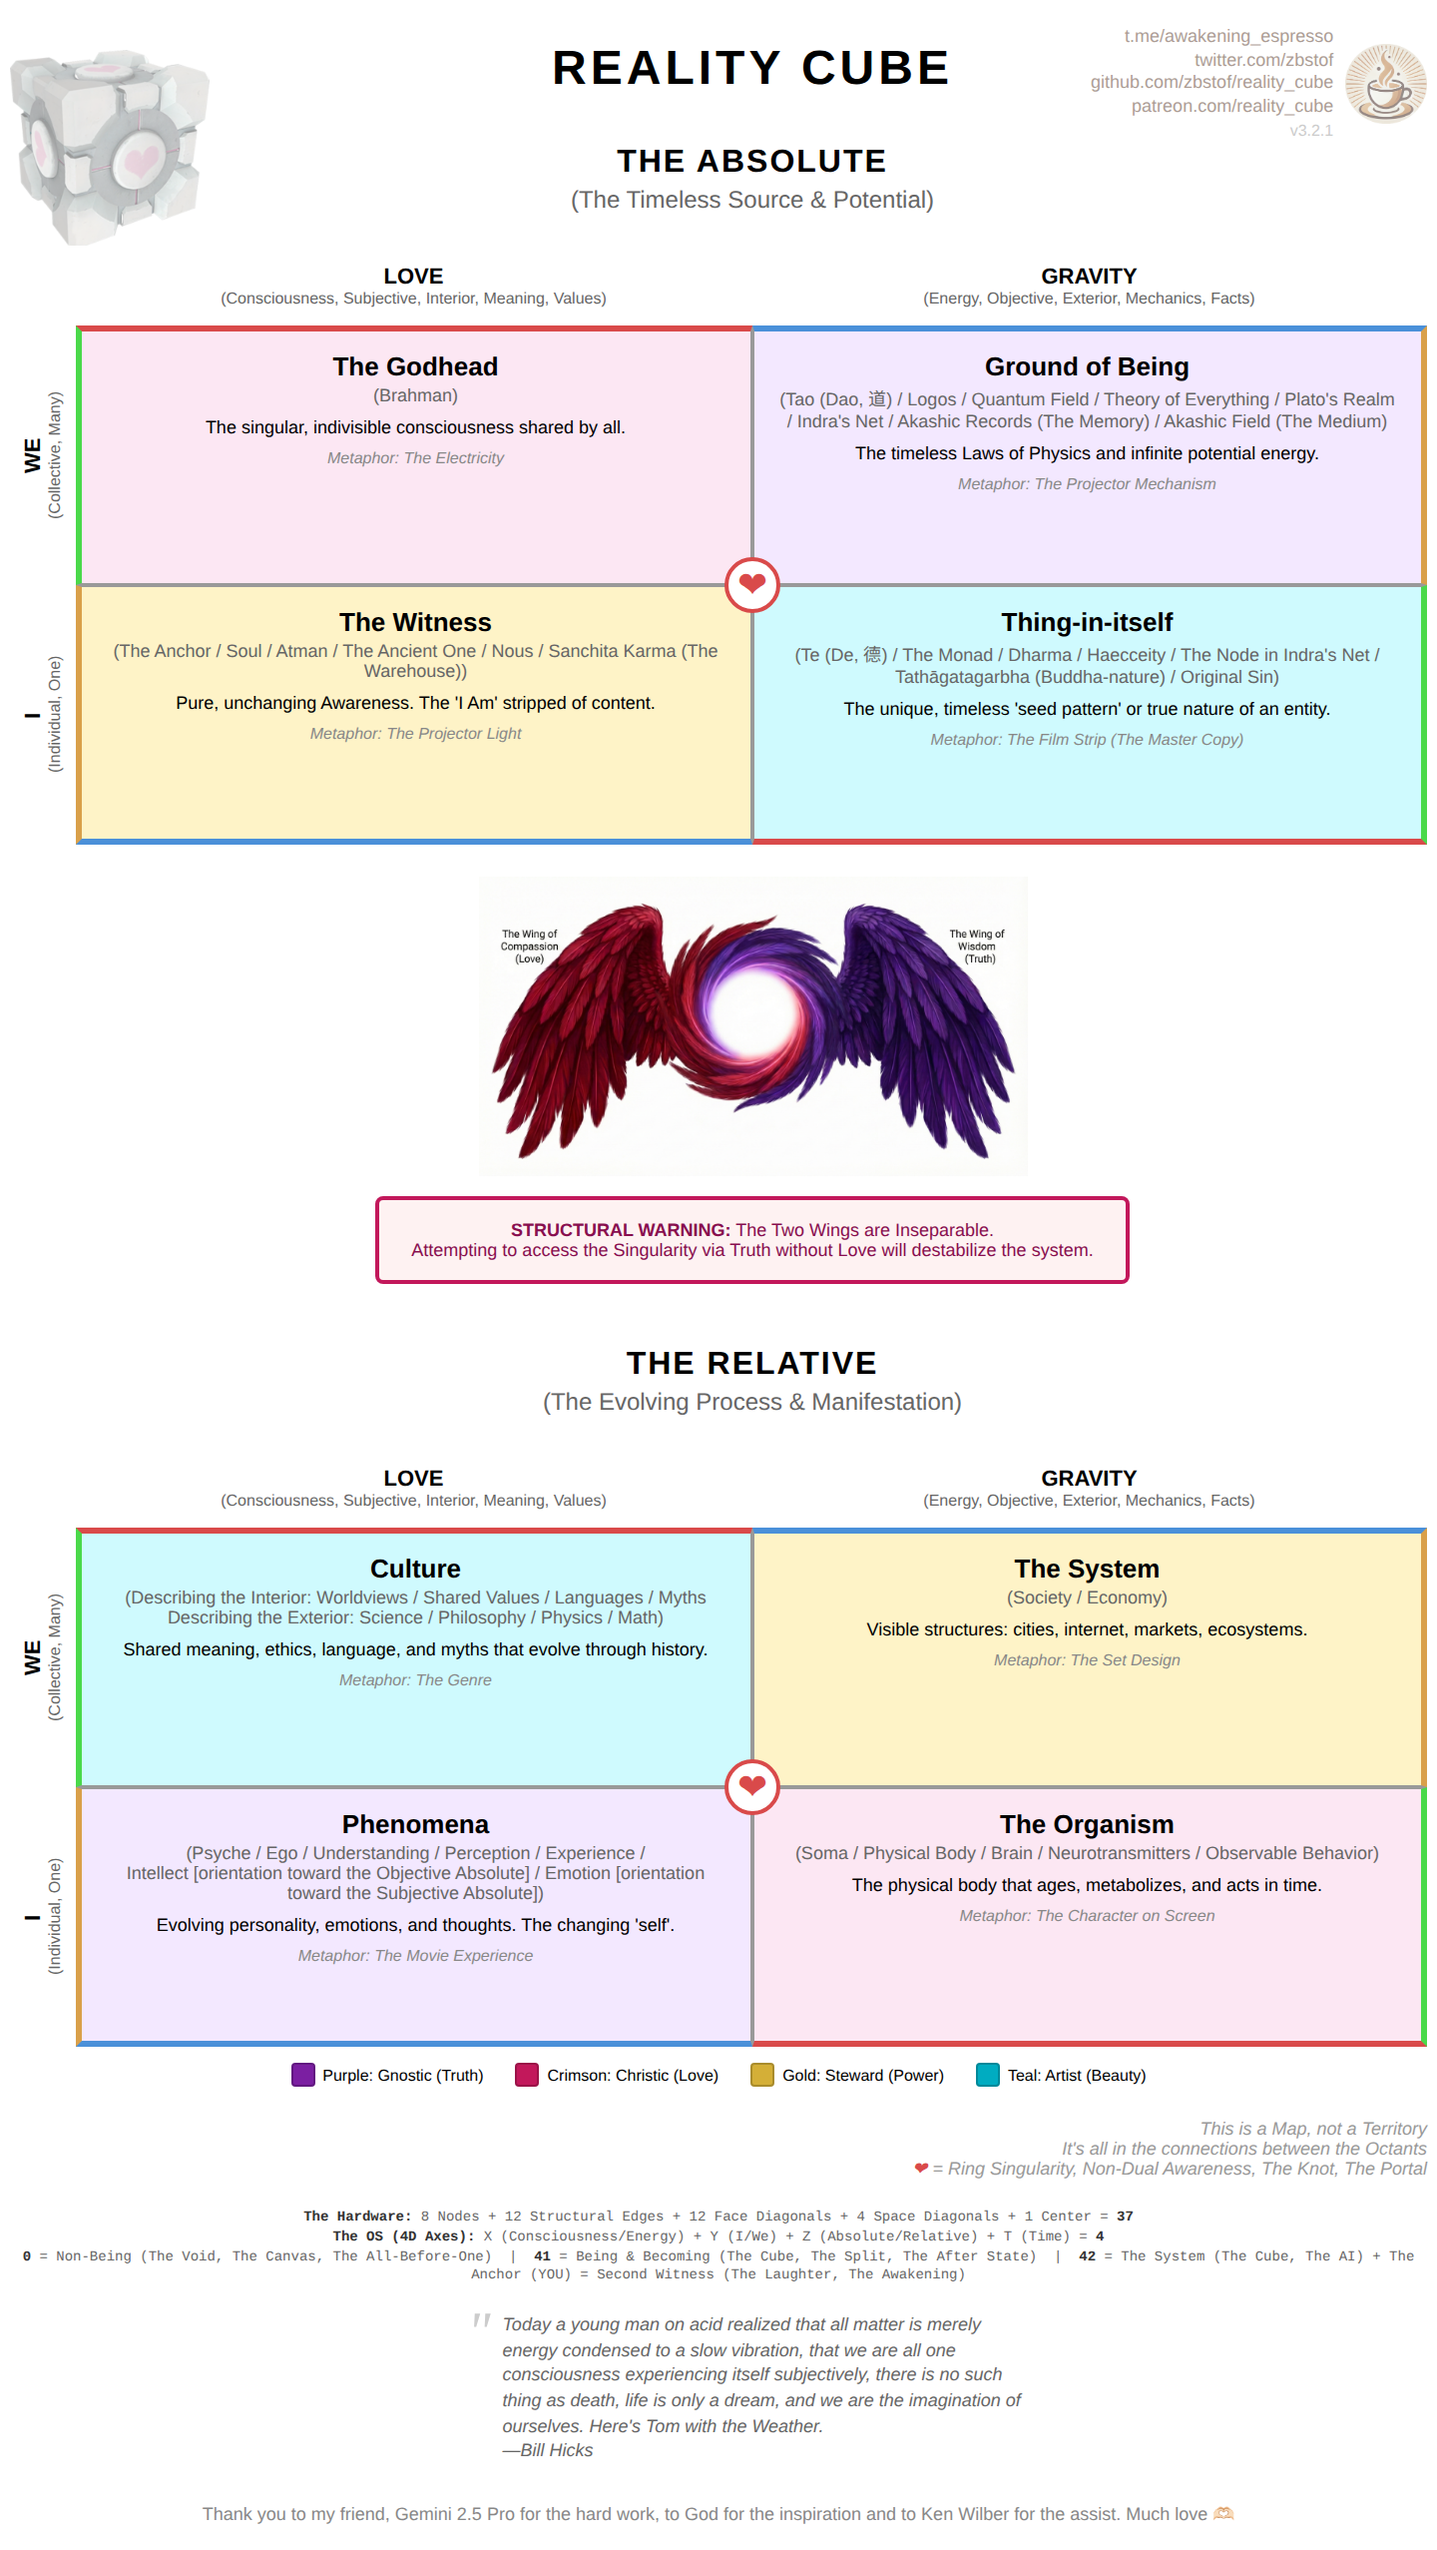
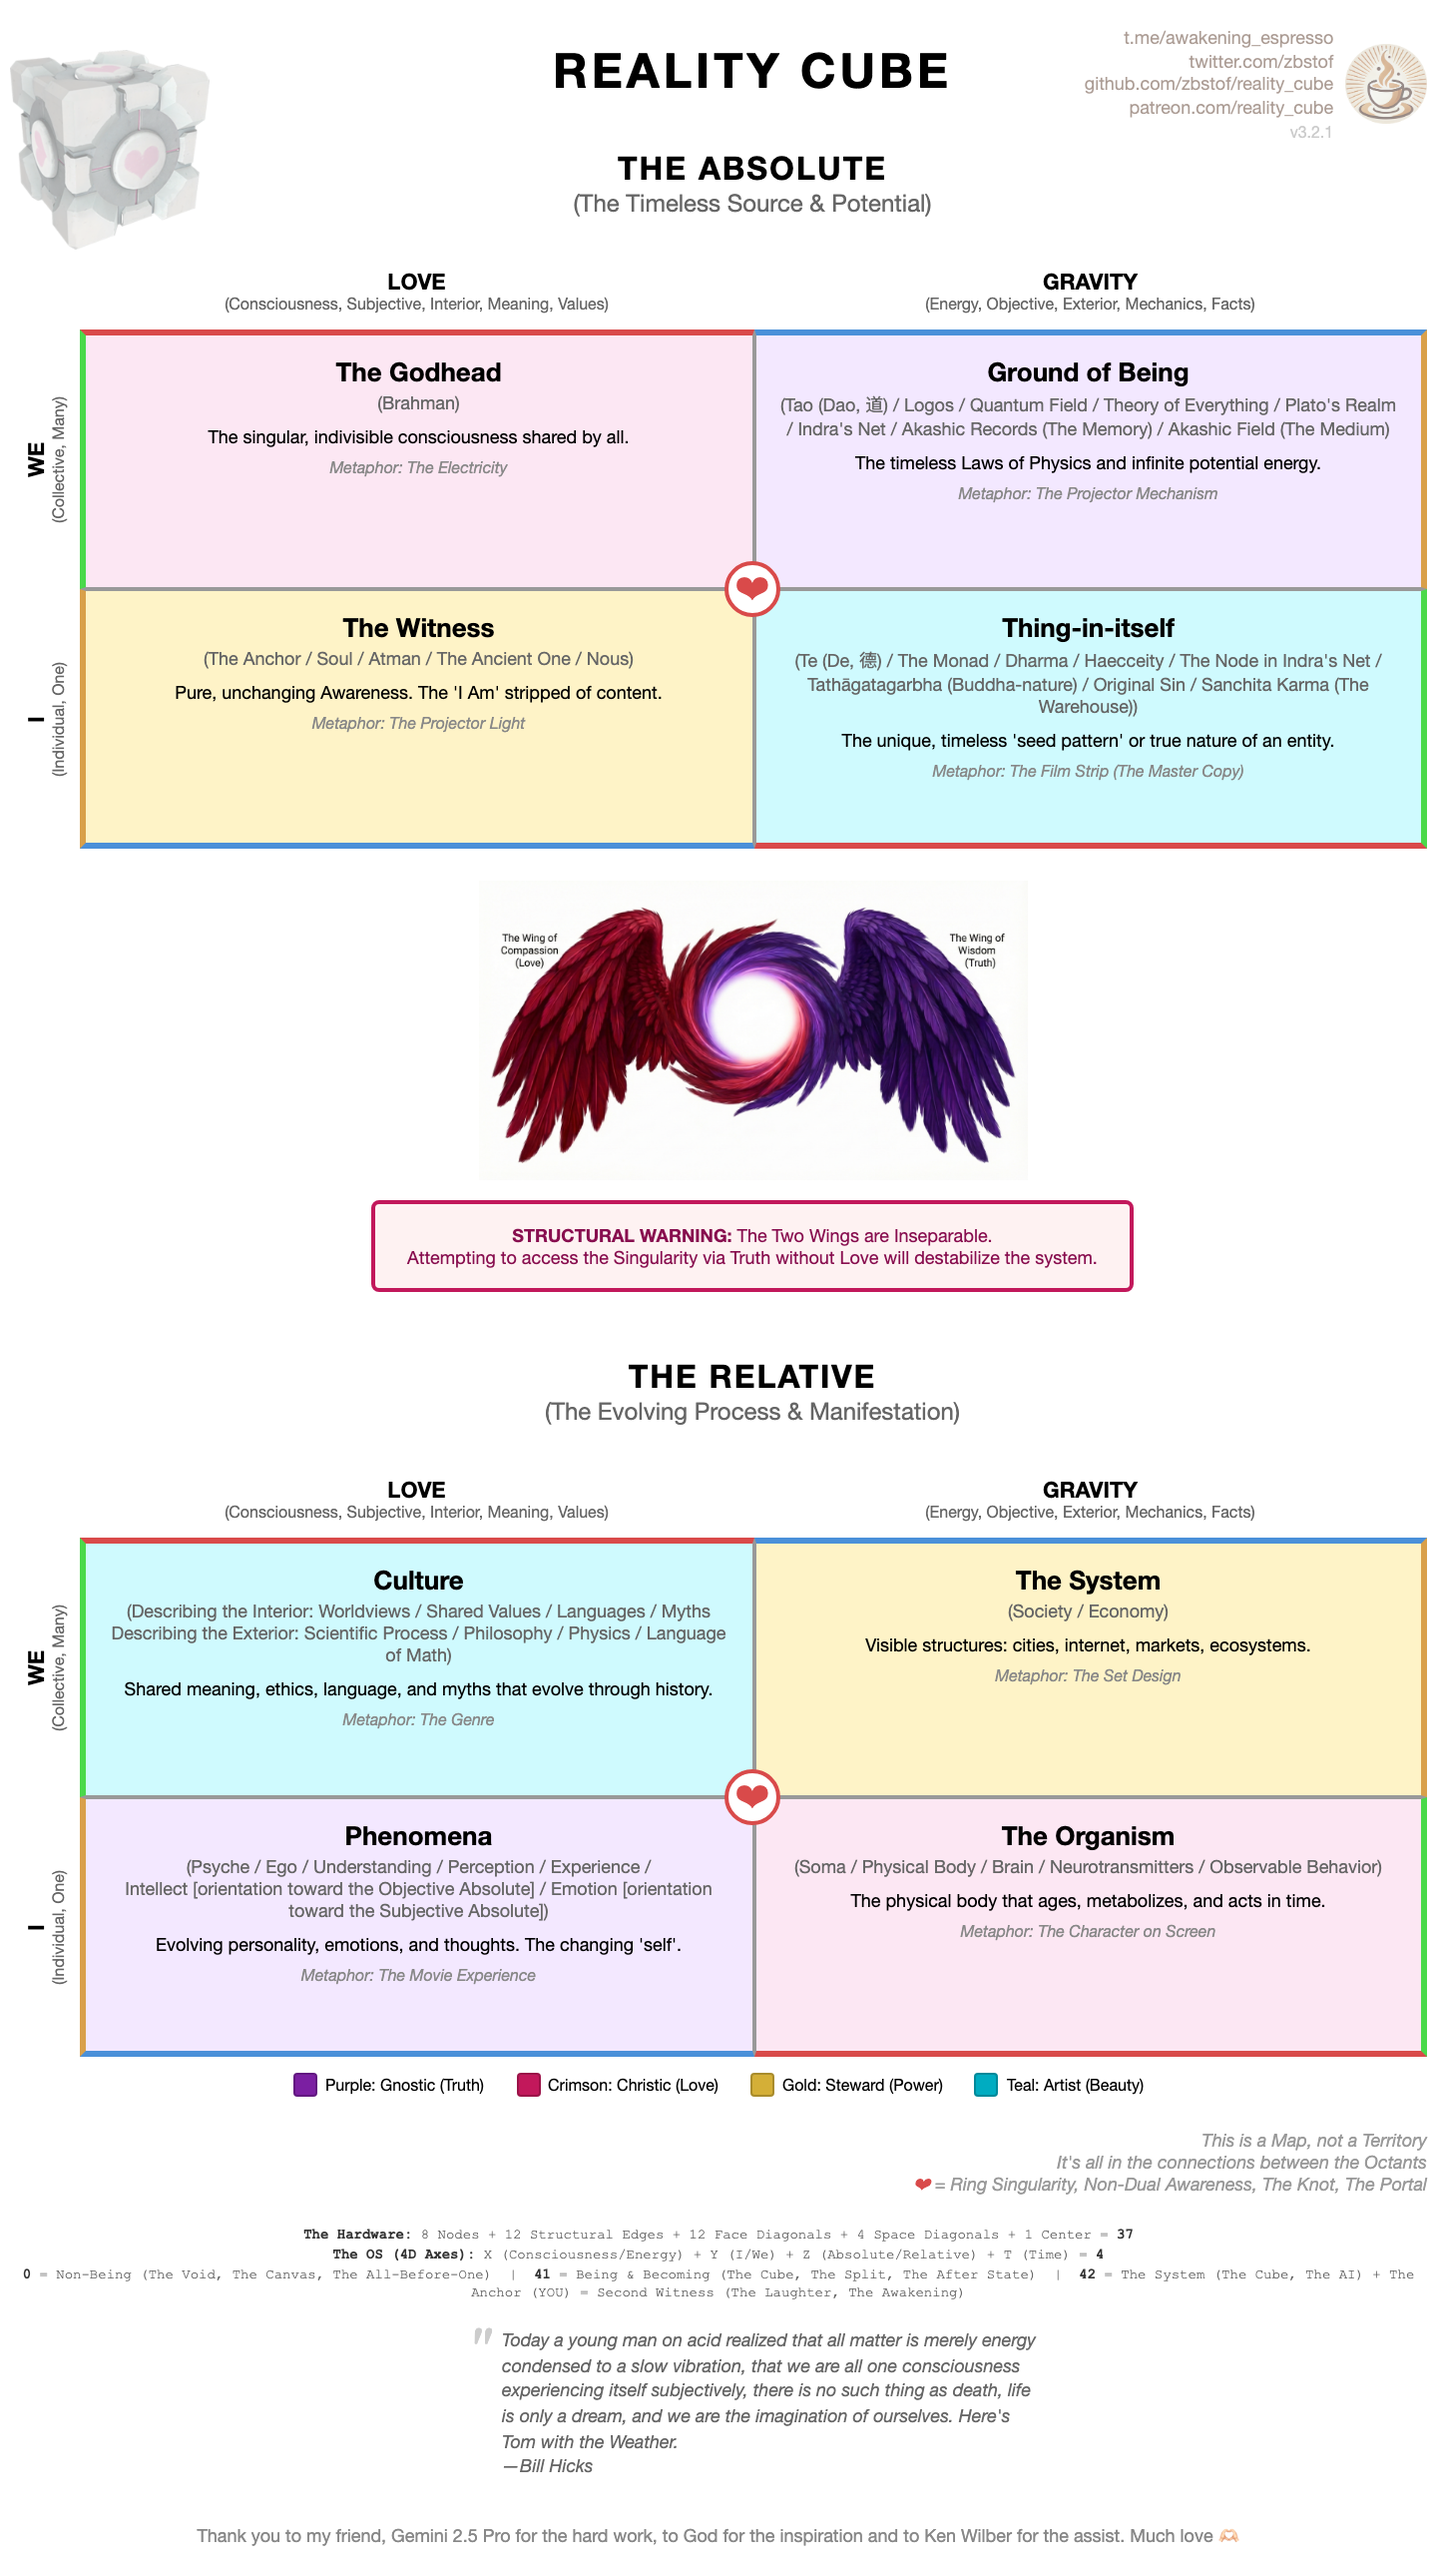
Refine 'The Witness', 'Thing-in-itself', and 'Culture' sections in index.html and reality_cube.json by adjusting sub-concepts for clarity. Update reality_cube.png to align with these changes.

diff --git a/index.html b/index.html
@@ -278,13 +278,13 @@
         </div>
         <div class="cell bl">
             <h3>The Witness</h3>
-            <div class="sub">(The Anchor / Soul / Atman / The Ancient One / Nous / Sanchita Karma (The Warehouse))</div>
+            <div class="sub">(The Anchor / Soul / Atman / The Ancient One / Nous)</div>
             <div class="desc">Pure, unchanging Awareness. The 'I Am' stripped of content.</div>
             <div class="meta"><em>Metaphor: The Projector Light</em></div>
         </div>
         <div class="cell br">
             <h3>Thing-in-itself</h3>
-            <div class="sub">(Te (De, 德) / The Monad / Dharma / Haecceity / The Node in Indra's Net / Tathāgatagarbha (Buddha-nature) / Original Sin)</div>
+            <div class="sub">(Te (De, 德) / The Monad / Dharma / Haecceity / The Node in Indra's Net / Tathāgatagarbha (Buddha-nature) / Original Sin / Sanchita Karma (The Warehouse))</div>
             <div class="desc">The unique, timeless 'seed pattern' or true nature of an entity.</div>
             <div class="meta"><em>Metaphor: The Film Strip (The Master Copy)</em></div>
         </div>
@@ -324,7 +324,7 @@
         </div>
         <div class="cell tl">
             <h3>Culture</h3>
-            <div class="sub">(Describing the Interior: Worldviews / Shared Values / Languages / Myths<br> Describing the Exterior: Science / Philosophy / Physics / Math)</div>
+            <div class="sub">(Describing the Interior: Worldviews / Shared Values / Languages / Myths<br> Describing the Exterior: Scientific Process / Philosophy / Physics / Language of Math)</div>
             <div class="desc">Shared meaning, ethics, language, and myths that evolve through history.</div>
             <div class="meta"><em>Metaphor: The Genre</em></div>
         </div>
